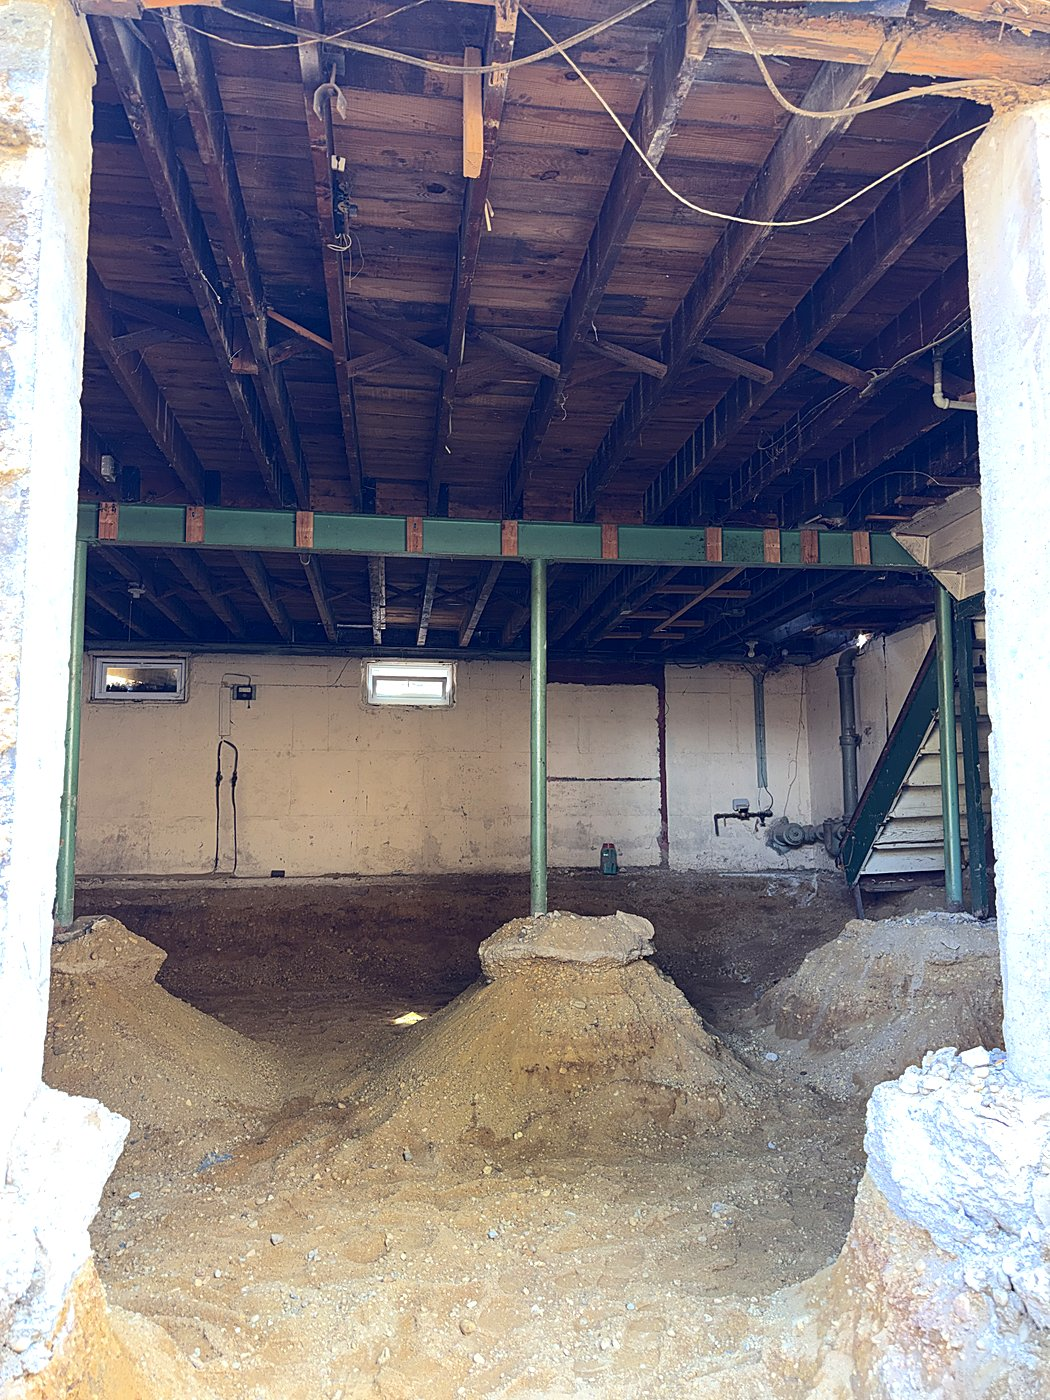
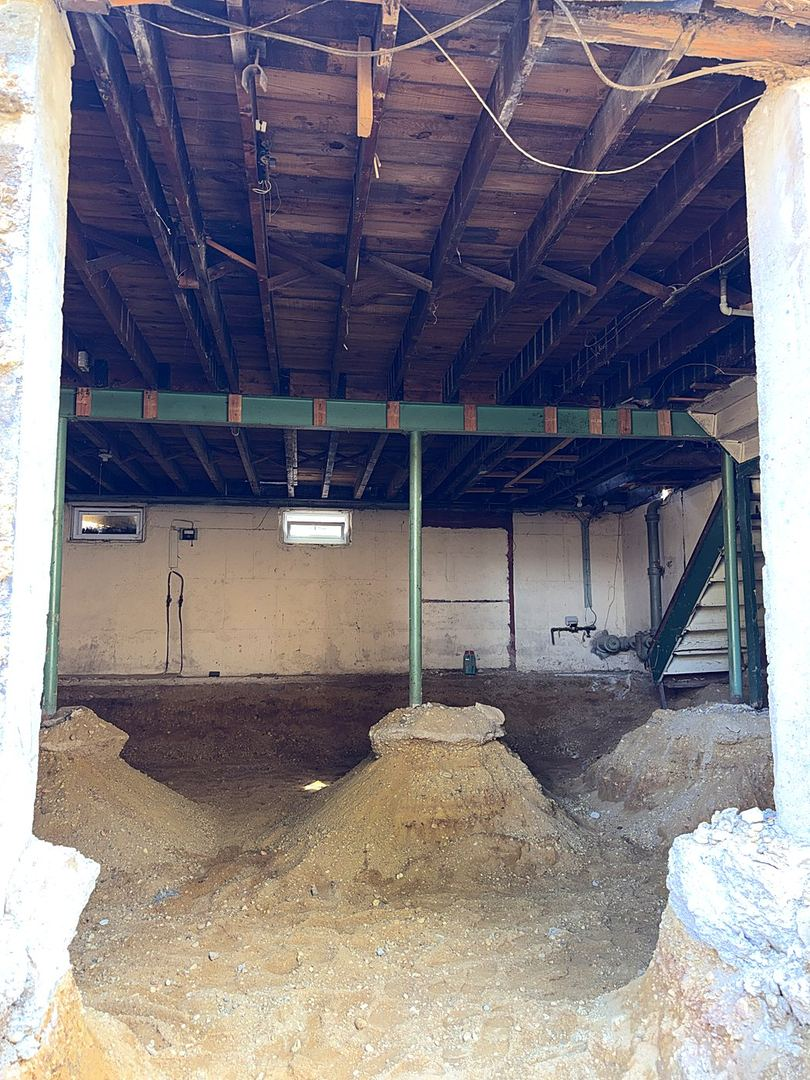
Swap three service photos
Kitchens & Baths now leads with the primary bath from Past Projects,
the two-tone walnut kitchen moves down to Interior Renovations, and
Additions & Extensions gets a Goulard frame: the house opened to the
studs with new framing and a new foundation alongside. Also re-exports
the steel-structure gallery photo, which was 398KB.

diff --git a/services.html b/services.html
@@ -183,7 +183,7 @@
 <section class="service alt" id="kitchens-baths">
   <div class="service-inner">
     <div class="service-media">
-      <img src="/images/projects/all-past-projects/kitchen-two-tone-walnut.jpg" alt="Kitchen with white perimeter cabinets, a walnut island, and a marble backsplash" loading="lazy">
+      <img src="/images/projects/all-past-projects/bath-primary-slat-tub.jpg" alt="Primary bath with a freestanding tub, a wood slat shower wall, and mosaic tile floors" loading="lazy">
     </div>
     <div class="service-copy">
       <p class="section-eyebrow">Interior</p>
@@ -203,7 +203,7 @@
 <section class="service" id="interiors">
   <div class="service-inner">
     <div class="service-media">
-      <img src="/images/projects/all-past-projects/interior-great-room-fireplace.jpg" alt="Open great room with a marble fireplace, recessed lighting, and wide-plank floors" loading="lazy">
+      <img src="/images/projects/all-past-projects/kitchen-two-tone-walnut.jpg" alt="Kitchen with white perimeter cabinets, a walnut island, and a marble backsplash" loading="lazy">
     </div>
     <div class="service-copy">
       <p class="section-eyebrow">Living Spaces</p>
@@ -223,7 +223,7 @@
 <section class="service alt" id="additions">
   <div class="service-inner">
     <div class="service-media">
-      <img src="/images/projects/projects-in-progress/addition-09-steel-structure.jpg" alt="New steel framing supporting the structure over the excavated basement" loading="lazy">
+      <img src="/images/projects/projects-in-progress/addition-27-framed-opening.jpg" alt="Two-story home opened to the studs with new framing across the rear wall and a new foundation alongside" loading="lazy">
     </div>
     <div class="service-copy">
       <p class="section-eyebrow">Structural</p>
